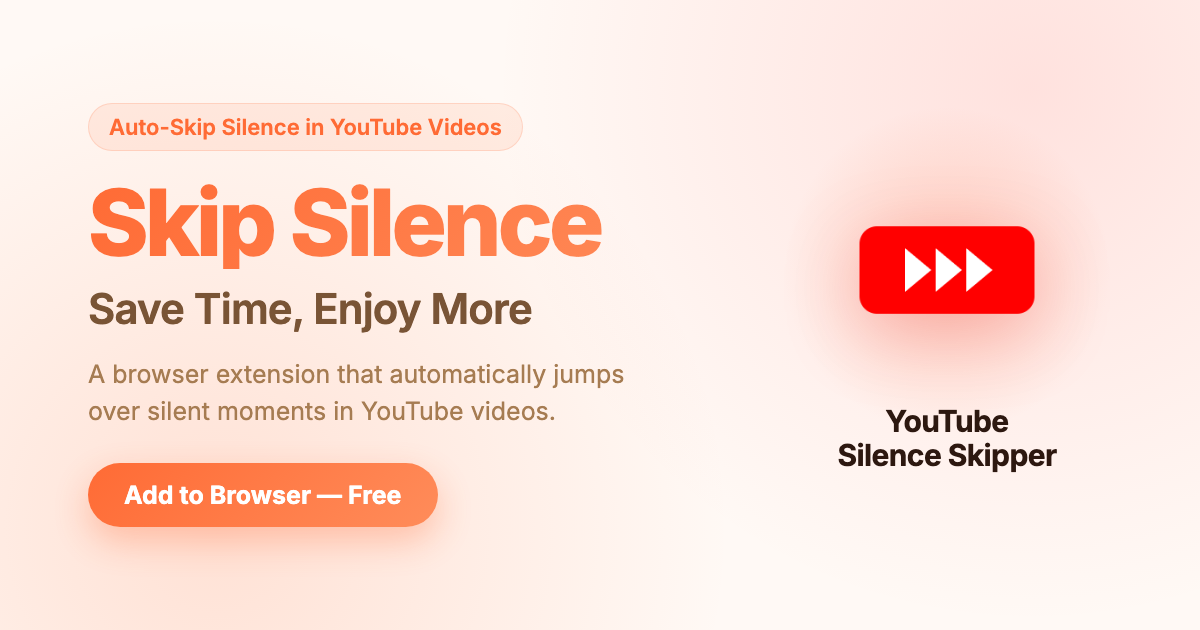
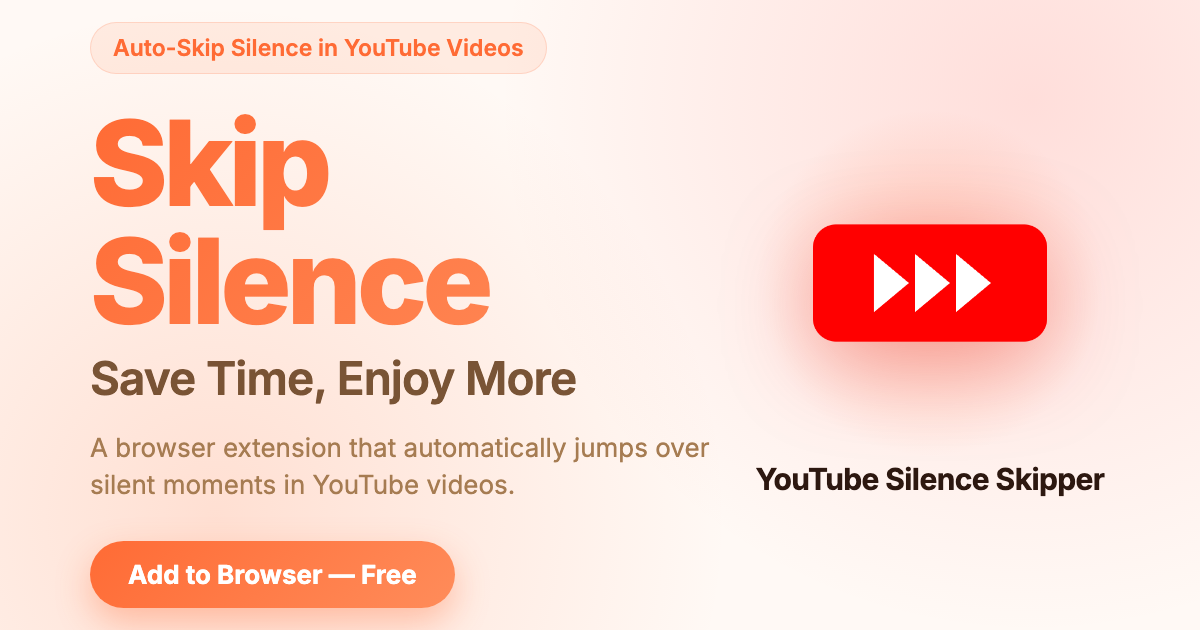
Keep v2 share image; add separate v3 image and point OG/Twitter tags to it

diff --git a/src/index.html b/src/index.html
@@ -22,7 +22,7 @@ showActivatePro: true
   <meta property="og:url" content="https://youtube-silenceskipper.com/">
   <meta property="og:title" content="YouTube Silence Skipper - Skip Silent Moments in YouTube Videos">
   <meta property="og:description" content="A browser extension that automatically skips silent periods in YouTube videos for a smoother viewing experience. Save time and enhance your YouTube experience.">
-  <meta property="og:image" content="https://youtube-silenceskipper.com/images/social_title_image_v2.png">
+  <meta property="og:image" content="https://youtube-silenceskipper.com/images/social_title_image_v3.png">
   <meta property="og:image:width" content="1200">
   <meta property="og:image:height" content="630">
   <meta property="og:site_name" content="YouTube Silence Skipper">
@@ -33,7 +33,7 @@ showActivatePro: true
   <meta name="twitter:url" content="https://youtube-silenceskipper.com/">
   <meta name="twitter:title" content="YouTube Silence Skipper - Skip Silent Moments in YouTube Videos">
   <meta name="twitter:description" content="A browser extension that automatically skips silent periods in YouTube videos for a smoother viewing experience. Save time and enhance your YouTube experience.">
-  <meta name="twitter:image" content="https://youtube-silenceskipper.com/images/social_title_image_v2.png">
+  <meta name="twitter:image" content="https://youtube-silenceskipper.com/images/social_title_image_v3.png">
   
   <!-- Favicons -->
   <link rel="icon" href="images/favicon.svg" type="image/svg+xml">

diff --git a/src/404.html b/src/404.html
@@ -21,7 +21,7 @@ showActivatePro: false
     <meta property="og:url" content="https://youtube-silenceskipper.com/404">
     <meta property="og:title" content="Page Not Found - YouTube Silence Skipper">
     <meta property="og:description" content="Page not found - YouTube Silence Skipper is a browser extension that automatically skips silent periods in YouTube videos.">
-    <meta property="og:image" content="https://youtube-silenceskipper.com/images/social_title_image_v2.png">
+    <meta property="og:image" content="https://youtube-silenceskipper.com/images/social_title_image_v3.png">
     <meta property="og:site_name" content="YouTube Silence Skipper">
     <meta property="og:locale" content="en_US">
 
@@ -30,7 +30,7 @@ showActivatePro: false
     <meta name="twitter:url" content="https://youtube-silenceskipper.com/404">
     <meta name="twitter:title" content="Page Not Found - YouTube Silence Skipper">
     <meta name="twitter:description" content="Page not found - YouTube Silence Skipper is a browser extension that automatically skips silent periods in YouTube videos.">
-    <meta name="twitter:image" content="https://youtube-silenceskipper.com/images/social_title_image_v2.png">
+    <meta name="twitter:image" content="https://youtube-silenceskipper.com/images/social_title_image_v3.png">
 
     <!-- Favicon -->
     <link rel="icon" href="images/favicon.svg" type="image/svg+xml">

diff --git a/src/manage-subscription.html b/src/manage-subscription.html
@@ -12,7 +12,7 @@
   <meta property="og:url" content="https://youtube-silenceskipper.com/manage-subscription.html">
   <meta property="og:title" content="Manage Subscription - YouTube Silence Skipper">
   <meta property="og:description" content="Manage your YouTube Silence Skipper Pro subscription - activate, customer portal, or billing support.">
-  <meta property="og:image" content="https://youtube-silenceskipper.com/images/social_title_image_v2.png">
+  <meta property="og:image" content="https://youtube-silenceskipper.com/images/social_title_image_v3.png">
   <meta property="og:image:width" content="1200">
   <meta property="og:image:height" content="630">
   <meta property="og:site_name" content="YouTube Silence Skipper">
@@ -23,7 +23,7 @@
   <meta name="twitter:url" content="https://youtube-silenceskipper.com/manage-subscription.html">
   <meta name="twitter:title" content="Manage Subscription - YouTube Silence Skipper">
   <meta name="twitter:description" content="Manage your YouTube Silence Skipper Pro subscription - activate, customer portal, or billing support.">
-  <meta name="twitter:image" content="https://youtube-silenceskipper.com/images/social_title_image_v2.png">
+  <meta name="twitter:image" content="https://youtube-silenceskipper.com/images/social_title_image_v3.png">
 
   <!-- Favicons -->
   <link rel="icon" href="images/favicon.svg" type="image/svg+xml">

diff --git a/src/terms-and-conditions.html b/src/terms-and-conditions.html
@@ -20,7 +20,7 @@ showActivatePro: true
   <meta property="og:url" content="https://youtube-silenceskipper.com/terms-and-conditions.html">
   <meta property="og:title" content="Terms and Conditions - YouTube Silence Skipper">
   <meta property="og:description" content="Terms and Conditions for YouTube Silence Skipper browser extension.">
-  <meta property="og:image" content="https://youtube-silenceskipper.com/images/social_title_image_v2.png">
+  <meta property="og:image" content="https://youtube-silenceskipper.com/images/social_title_image_v3.png">
   <meta property="og:image:width" content="1200">
   <meta property="og:image:height" content="630">
   <meta property="og:site_name" content="YouTube Silence Skipper">
@@ -31,7 +31,7 @@ showActivatePro: true
   <meta name="twitter:url" content="https://youtube-silenceskipper.com/terms-and-conditions.html">
   <meta name="twitter:title" content="Terms and Conditions - YouTube Silence Skipper">
   <meta name="twitter:description" content="Terms and Conditions for YouTube Silence Skipper browser extension.">
-  <meta name="twitter:image" content="https://youtube-silenceskipper.com/images/social_title_image_v2.png">
+  <meta name="twitter:image" content="https://youtube-silenceskipper.com/images/social_title_image_v3.png">
 
   <!-- Favicons -->
   <link rel="icon" href="images/favicon.svg" type="image/svg+xml">

diff --git a/src/pro-success.html b/src/pro-success.html
@@ -21,7 +21,7 @@ showActivatePro: false
   <meta property="og:url" content="https://youtube-silenceskipper.com/pro-success.html">
   <meta property="og:title" content="Welcome to Pro! - YouTube Silence Skipper">
   <meta property="og:description" content="Welcome to YouTube Silence Skipper Pro! Your subscription is now active.">
-  <meta property="og:image" content="https://youtube-silenceskipper.com/images/social_title_image_v2.png">
+  <meta property="og:image" content="https://youtube-silenceskipper.com/images/social_title_image_v3.png">
   <meta property="og:image:width" content="1200">
   <meta property="og:image:height" content="630">
   <meta property="og:site_name" content="YouTube Silence Skipper">
@@ -32,7 +32,7 @@ showActivatePro: false
   <meta name="twitter:url" content="https://youtube-silenceskipper.com/pro-success.html">
   <meta name="twitter:title" content="Welcome to Pro! - YouTube Silence Skipper">
   <meta name="twitter:description" content="Welcome to YouTube Silence Skipper Pro! Your subscription is now active.">
-  <meta name="twitter:image" content="https://youtube-silenceskipper.com/images/social_title_image_v2.png">
+  <meta name="twitter:image" content="https://youtube-silenceskipper.com/images/social_title_image_v3.png">
 
   <!-- Favicons -->
   <link rel="icon" href="images/favicon.svg" type="image/svg+xml">

diff --git a/src/privacy-policy.html b/src/privacy-policy.html
@@ -20,7 +20,7 @@ showActivatePro: true
   <meta property="og:url" content="https://youtube-silenceskipper.com/privacy-policy.html">
   <meta property="og:title" content="Privacy Policy - YouTube Silence Skipper">
   <meta property="og:description" content="Privacy Policy for YouTube Silence Skipper browser extension.">
-  <meta property="og:image" content="https://youtube-silenceskipper.com/images/social_title_image_v2.png">
+  <meta property="og:image" content="https://youtube-silenceskipper.com/images/social_title_image_v3.png">
   <meta property="og:image:width" content="1200">
   <meta property="og:image:height" content="630">
   <meta property="og:site_name" content="YouTube Silence Skipper">
@@ -31,7 +31,7 @@ showActivatePro: true
   <meta name="twitter:url" content="https://youtube-silenceskipper.com/privacy-policy.html">
   <meta name="twitter:title" content="Privacy Policy - YouTube Silence Skipper">
   <meta name="twitter:description" content="Privacy Policy for YouTube Silence Skipper browser extension.">
-  <meta name="twitter:image" content="https://youtube-silenceskipper.com/images/social_title_image_v2.png">
+  <meta name="twitter:image" content="https://youtube-silenceskipper.com/images/social_title_image_v3.png">
 
   <!-- Favicons -->
   <link rel="icon" href="images/favicon.svg" type="image/svg+xml">

diff --git a/src/activate-pro.html b/src/activate-pro.html
@@ -12,7 +12,7 @@
   <meta property="og:url" content="https://youtube-silenceskipper.com/activate-pro.html">
   <meta property="og:title" content="Activate Pro - YouTube Silence Skipper">
   <meta property="og:description" content="Activate your Pro subscription for YouTube Silence Skipper">
-  <meta property="og:image" content="https://youtube-silenceskipper.com/images/social_title_image_v2.png">
+  <meta property="og:image" content="https://youtube-silenceskipper.com/images/social_title_image_v3.png">
   <meta property="og:image:width" content="1200">
   <meta property="og:image:height" content="630">
   <meta property="og:site_name" content="YouTube Silence Skipper">
@@ -23,7 +23,7 @@
   <meta name="twitter:url" content="https://youtube-silenceskipper.com/activate-pro.html">
   <meta name="twitter:title" content="Activate Pro - YouTube Silence Skipper">
   <meta name="twitter:description" content="Activate your Pro subscription for YouTube Silence Skipper">
-  <meta name="twitter:image" content="https://youtube-silenceskipper.com/images/social_title_image_v2.png">
+  <meta name="twitter:image" content="https://youtube-silenceskipper.com/images/social_title_image_v3.png">
 
   <!-- Favicons -->
   <link rel="icon" href="images/favicon.svg" type="image/svg+xml">
